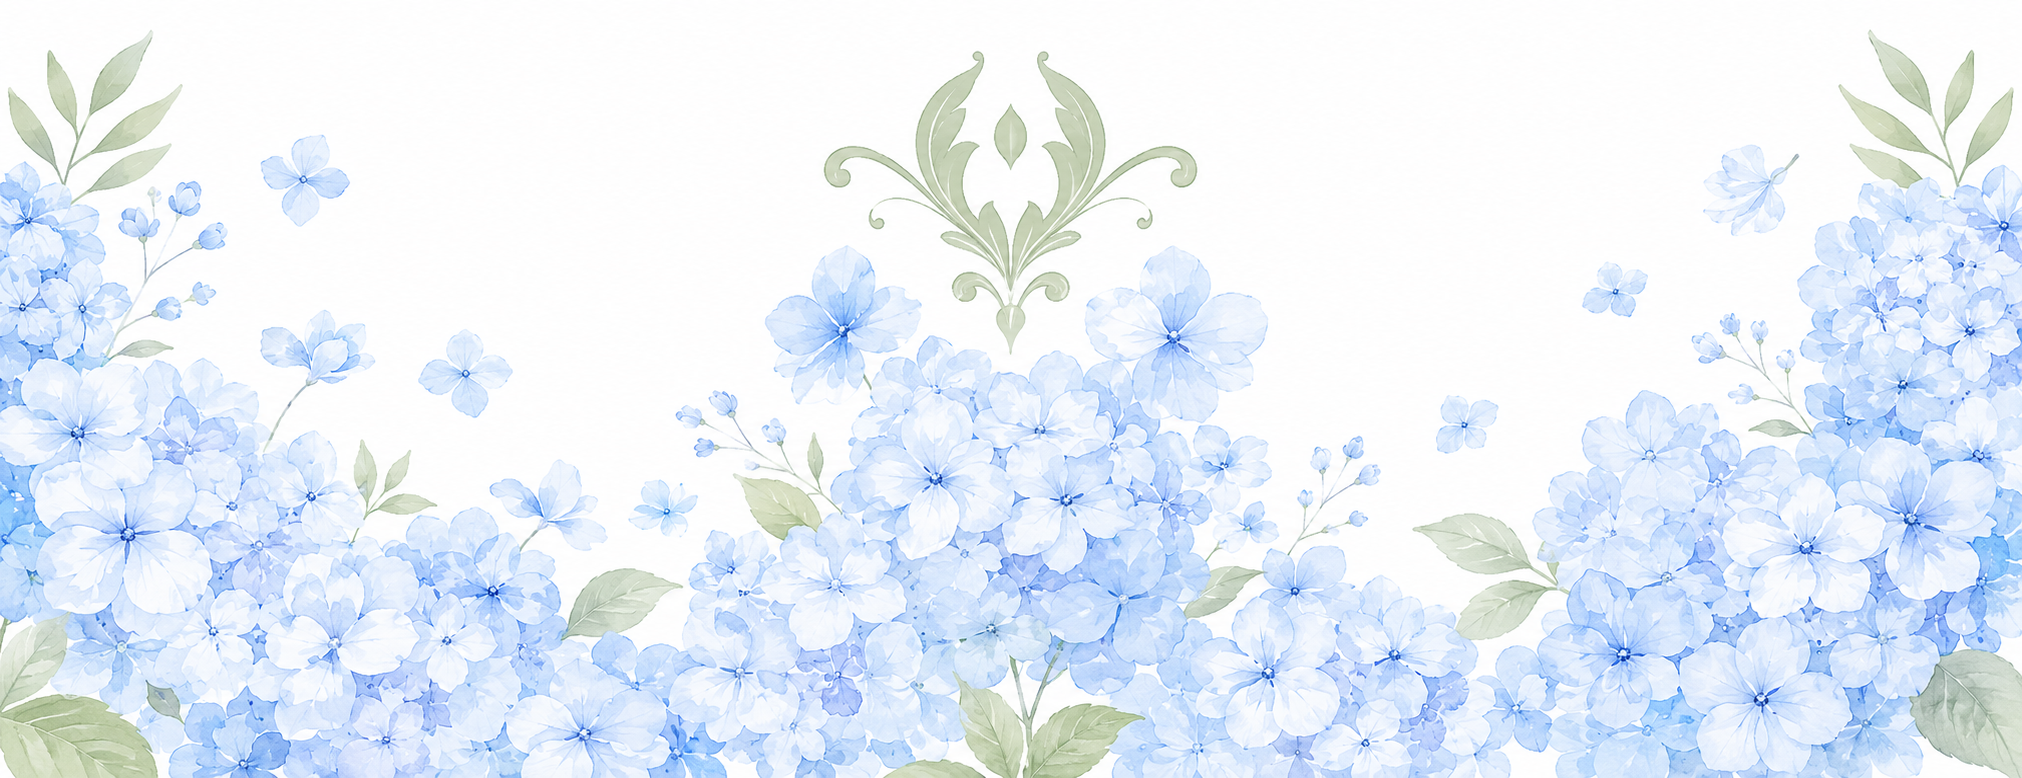
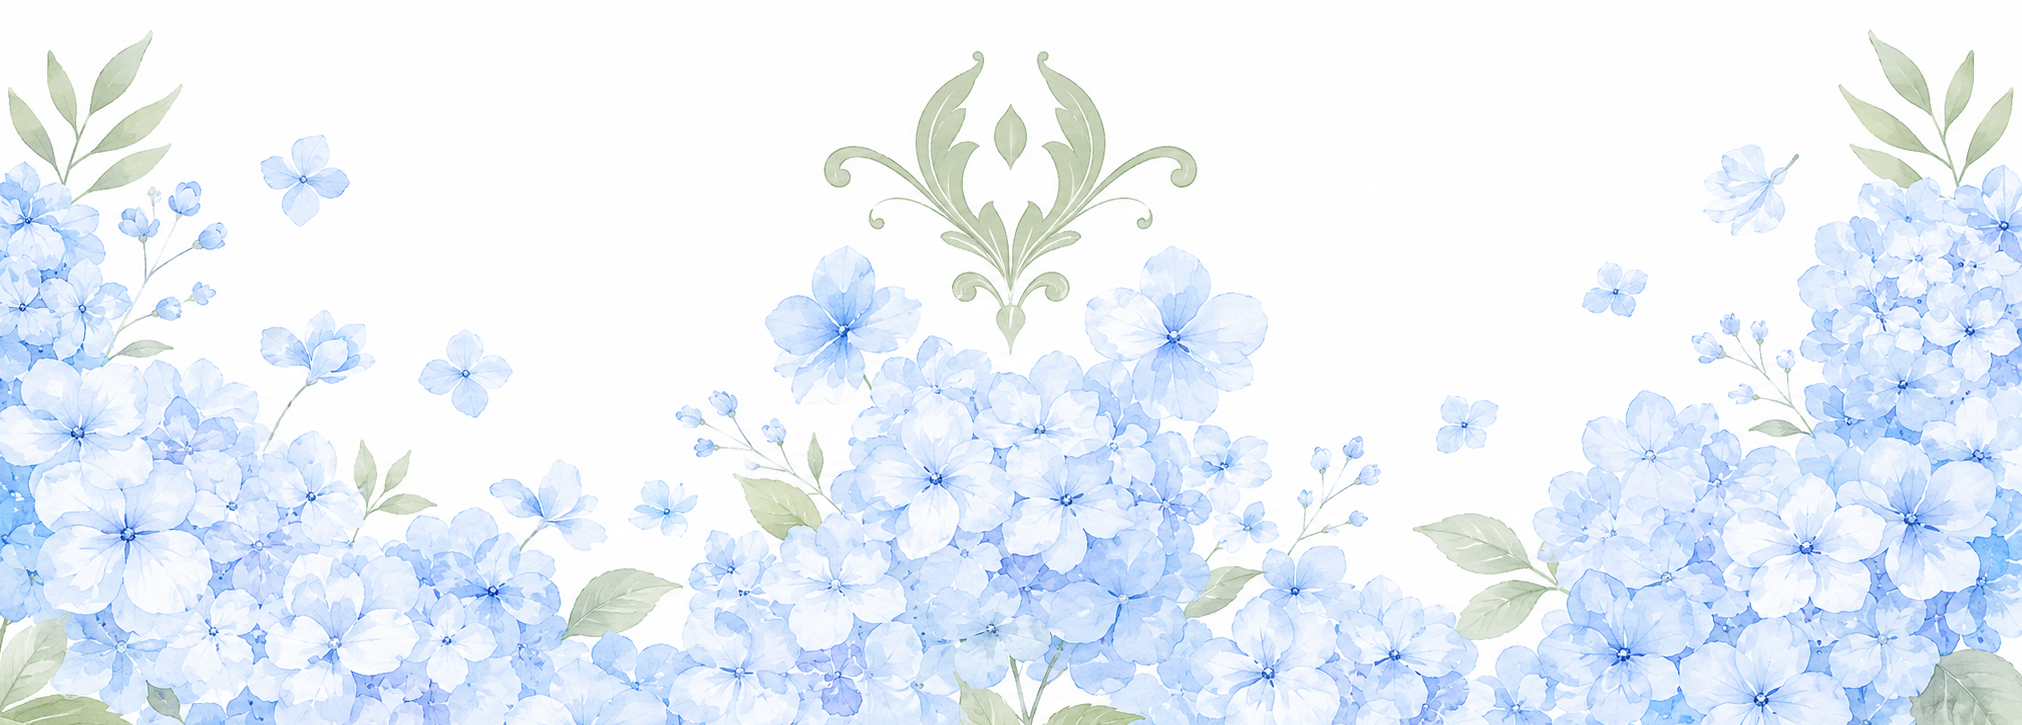
stylowanie

diff --git a/index.html b/index.html
@@ -4,7 +4,6 @@
     <meta charset="UTF-8">
     <meta name="viewport" content="width=device-width, initial-scale=1.0">
     <title>Aleksandra i Bartłomiej - Logowanie</title>
-    <!-- Czcionki Google Fonts -->
     <link href="https://fonts.googleapis.com/css2?family=Dancing+Script:wght@500;700&family=Playfair+Display:ital,wght@0,400;0,600;1,400;1,600&family=Montserrat:wght@300;400;500;600&display=swap" rel="stylesheet">
     <link rel="stylesheet" href="style.css">
     <script src="databaseScript.js" defer></script>
@@ -14,8 +13,14 @@
 
     <div id="login-container" class="login-wrapper">
         
+        <!-- Górna dekoracja -->
         <div class="flower-decor top-flowers">
-            <img src="img/kwiatki-gora.png" alt="dekoracja góra">
+            <picture>
+                <!-- Na telefon -->
+                <source media="(max-width: 768px)" srcset="img/kwiatki-gora.png">
+                <!-- Na komputer -->
+                <img src="img/kwiatki-calosc-gora.png" alt="dekoracja góra">
+            </picture>
         </div>
 
         <div class="login-content">
@@ -52,9 +57,14 @@
             </div>
         </div>
 
-        <!-- Dolna dekoracja (rozciągnięta na całą szerokość ekranu) -->
+        <!-- Dolna dekoracja -->
         <div class="flower-decor bottom-flowers">
-            <img src="img/kwiatki-dol.png" alt="dekoracja dół">
+            <picture>
+                <!-- Na telefon -->
+                <source media="(max-width: 768px)" srcset="img/kwiatki-dol.png">
+                <!-- Na komputer -->
+                <img src="img/kwiatki-calosc-dol.png" alt="dekoracja dół">
+            </picture>
         </div>
     </div>
 

diff --git a/style.css b/style.css
@@ -50,11 +50,16 @@ body {
     overflow: hidden;
 }
 
+.flower-decor picture {
+    display: block;
+    width: 100%;
+}
+
+
 .flower-decor img {
     width: 100%;
-    max-height: 250px; 
-    object-fit: cover; 
-    object-position: center;
+    height: auto;
+    display: block;
 }
 
 .top-flowers {
@@ -269,6 +274,7 @@ body {
 }
 
 
+/* --- ZABEZPIECZONA RESPONSYWNOŚĆ TELEFONÓW (Nienaruszony kod) --- */
 @media (max-width: 768px) {
     .login-wrapper {
         padding: 100px 16px;
